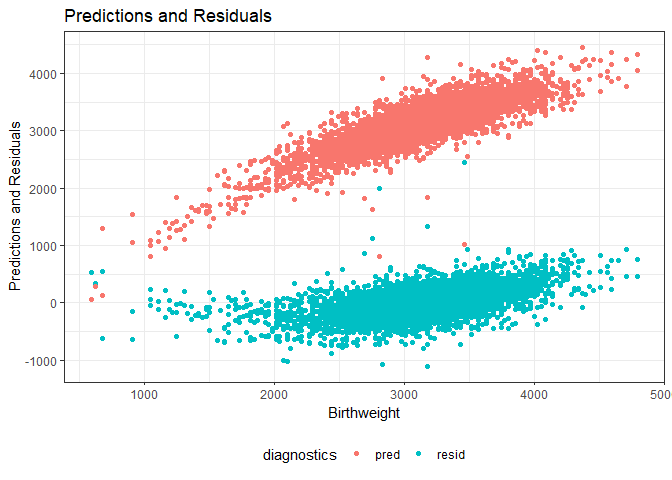
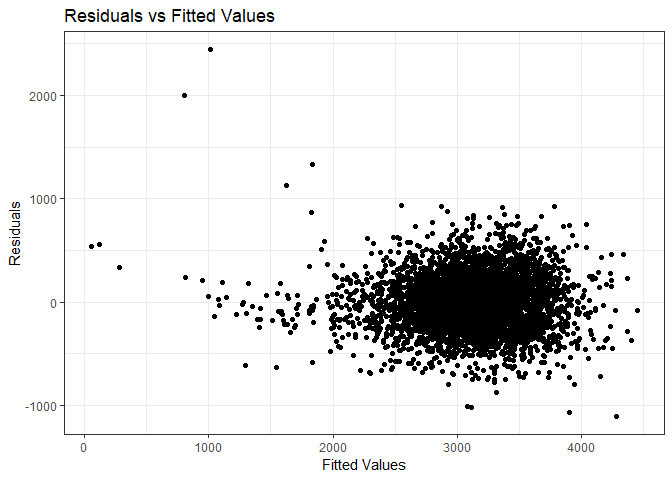
Changed the residuals vs fits plot to be what is actually wanted, and added more detail to commentary on results in the hw.

diff --git a/p8105_hw6_baw2160.md b/p8105_hw6_baw2160.md
@@ -52,6 +52,7 @@ Loading the data:
 -   Modifiy victim\_race to have categories white and non-white, with white as the reference category.
     -   All "unknown" values are "non-white" values with the recoding
 -   Be sure that victim\_age is numeric.
+    -   Removing all "NA" observations for victim\_age
 
 ``` r
 hom_data_tidied = hom_data %>% 
@@ -69,7 +70,7 @@ hom_data_tidied = hom_data %>%
     ## coercion
 
 -   For the city of Baltimore, MD, use the glm function to fit a logistic regression with resolved vs unresolved as the outcome and victim age, sex and race (as just defined) as predictors.
--   Save the output of glm as an R object; apply the broom::tidy to this object; and obtain the estimate and confidence interval of the adjusted odds ratio for solving homicides comparing black victims to white victims keeping all other variables fixed.
+-   Save the output of glm as an R object; apply the broom::tidy to this object; and obtain the estimate and confidence interval of the adjusted odds ratio for solving homicides comparing non-white victims to white victims keeping all other variables fixed.
 
 ``` r
 baltimore_glm = 
@@ -128,7 +129,7 @@ all_cities_glm = hom_data_tidied %>%
 There seems to be an issue wherein fitted probabilities 0 or 1 occurred, meaning that there is a variable that is creating perfect separation in the dependent variable. This might mean that complete regression isn't the best model for this dataset, and that model values may be inflated.
 
 -   Create a plot that shows the estimated ORs and CIs for each city.
--   Organize cities according to estimated OR, and comment on the plot.
+-   Organize cities according to estimated OR
 
 ``` r
 all_cities_glm %>%
@@ -148,7 +149,7 @@ all_cities_glm %>%
 
 We can see from this plot that the city with the highest odds ratio for solving homicides comparing non-white to white victims is Tampa, FL, and the city with the lowest odds ratio for solving homicides with this same comparison is Boston, MA.
 
-Most cities seem to have roughly the same odds ratio, as all points are on a roughly flat line. The error bars do seem to vary widely, however. On the whole, most odds ratios are below 1, indicating that the odds of solving homicides with non-white victims is often lower than the odds of solving homicides with white victims.
+Most cities seem to have roughly the same odds ratio, as all points are on a roughly flat line. The error bars do seem to vary widely, however. This is especially true for the cities with the highest odds ratios - possibly meaning that the homicides in these cities don't necessarily have similar solving odds between non-whites and whites. Rather, the solving odds differ widely, so average out to a ratio of around 1. On the whole, most odds ratios are below 1, indicating that the odds of solving homicides with non-white victims is often lower than the odds of solving homicides with white victims.
 
 ### Problem 2:
 
@@ -218,7 +219,7 @@ birthweight_full_tidy
 | ppwt        |     -3.472|    0.184|
 | smoken      |     -4.854|    0.000|
 
-Here are the variables that weren't statistically significant when they were a part of the full model:
+Here are the variables that weren't statistically significant when all other predictors were included in the full model:
 
 -   fincome
 -   frace2-frace8 (missing frace5-7)
@@ -231,7 +232,7 @@ Here are the variables that weren't statistically significant when they were a p
 -   ppbmi
 -   ppwt
 
-N/A - might mean these variables aren't linearly independent:
+These variables had N/A estimates - might mean these variables aren't linearly independent:
 
 -   pnumlbw
 -   pnumsga
@@ -268,7 +269,7 @@ I decided to then add back in variables I think make theoretical sense:
 -   ppwt
 -   ppbmi
 
-Looking at ppbmi and ppwt, each seems to not be significant when the other is in the model. They are also both non-significant when testing for an interaction between the two. I'm considering ppbmi more important, so I remove ppwt from the model. This is because BMI may be a more accurate measurement of one's health than simply weight (although BMI can be potentially problematic as well).
+Looking at ppbmi and ppwt, each seems to not be significant when the other is in the model. They are also both non-significant when testing for an interaction between the two. I'm considering ppbmi more important, so I remove ppwt from the model. This is because BMI may be a more accurate measurement of one's health than simply weight (although BMI can be potentially problematic as well). The idea is that health of the mother may influence birthweight of the baby.
 
 Testing for possible interactions (including some previously excluded variables in case they become statistically significant in the model when included in an interaction):
 
@@ -320,17 +321,17 @@ birthweight_3_tidy
 | fincome:frace4 |      0.379|    0.871|
 | fincome:frace8 |      0.829|    0.784|
 
-Only the interaction between head circumference and length at birth seemed significant - length seemed non-significant on it's own at this point.
+Only the interaction between head circumference and length at birth seemed significant - length seemed non-significant on it's own at this point (thus, I excluded it in the final proposed model).
 
 ``` r
-birthweight_4 = lm(bwt ~ babysex + bhead + bhead:blength + delwt + gaweeks + mrace + smoken + ppbmi, data = birthweight_data)
+birthweight_final = lm(bwt ~ babysex + bhead + bhead:blength + delwt + gaweeks + mrace + smoken + ppbmi, data = birthweight_data)
 
-birthweight_4_tidy = birthweight_4 %>% 
+birthweight_final_tidy = birthweight_final %>% 
   broom::tidy() %>% 
   select(term, estimate, p.value) %>% 
   knitr::kable(digits = 3)
 
-birthweight_4_tidy
+birthweight_final_tidy
 ```
 
 | term          |   estimate|  p.value|
@@ -350,7 +351,7 @@ birthweight_4_tidy
 Comparing nested models - the full to the new one:
 
 ``` r
-anova(birthweight_4, birthweight_full) %>% 
+anova(birthweight_final, birthweight_full) %>% 
   broom::tidy()
 ```
 
@@ -362,7 +363,7 @@ anova(birthweight_4, birthweight_full) %>%
     ## 1   4331 321604175.    NA     NA      NA     NA    
     ## 2   4320 320724338.    11 879837.      1.08   0.375
 
-My proposed model doesn't seem to be significantly different from the full one, which means my proposed model is not necessarily the best model.
+My proposed model doesn't seem to be significantly different from the full one, which means my proposed model is not necessarily the best model. It could be that some variables excluded from the model were significant if there were a different combination of additional predictors already included. It could also be that some variables included in the model would not have been significant if the right combination of other predictors were included in the model.
 
 Graphing the residuals and predictions of the proposed regression model:
 
@@ -370,28 +371,27 @@ Graphing the residuals and predictions of the proposed regression model:
 birthweight_data %>% 
   modelr::add_residuals(birthweight_3) %>% 
   modelr::add_predictions(birthweight_3) %>% 
-  gather(key = diagnostics, value = value, resid:pred) %>% 
-  ggplot(aes(x = bwt, y = value, color = diagnostics)) + 
+  ggplot(aes(x = pred, y = resid)) + 
   geom_point() +
   labs(
-    title = "Predictions and Residuals",
-    x = "Birthweight",
-    y = "Predictions and Residuals"
+    title = "Residuals vs Fitted Values",
+    x = "Fitted Values",
+    y = "Residuals"
   ) 
 ```
 
 ![](p8105_hw6_baw2160_files/figure-markdown_github/unnamed-chunk-15-1.png)
 
-The predictions show a positive, linear trend, indicating that the model is predicting similar birthweights to the actual birthweight data. The residuals are all basically centered around 0, indicating not too much prediction errors. However, the spread is pretty wide around this 0, so it's likely this is not the most accurate of predictive models.
+The residuals do not seem to be randomly scattered about the 0 line, indicating that we are not sure whether the assumption of linearity is met, or if the variances of the error terms are equal. Additionally, there appear to be a few outliers in the scatterplot. Overall, it's likely that this is not the most accurate of predictive models.
 
-Compare your model to two others:
+Comparing my proposed model to two others:
 
 -   One using length at birth and gestational age as predictors (main effects only)
 -   One using head circumference, length, sex, and all interactions (including the three-way interaction) between these
 
 The comparison is done below:
 
--   Created a cross-validation training and testing sets
+-   Created cross-validation training and testing sets
 -   Fit my proposed model and the two comparison models to the training sets and then validated using the testing sets
 -   Took a look at the generated RSMEs for each model
 
@@ -410,7 +410,7 @@ cv_birthweight =
     rmse_circ_length_sex = map2_dbl(circ_length_sex_mod, test, ~rmse(model = .x, data = .y)))
 ```
 
-Model RMSEs:
+Modelling the RMSEs:
 
 ``` r
 cv_birthweight %>% 
